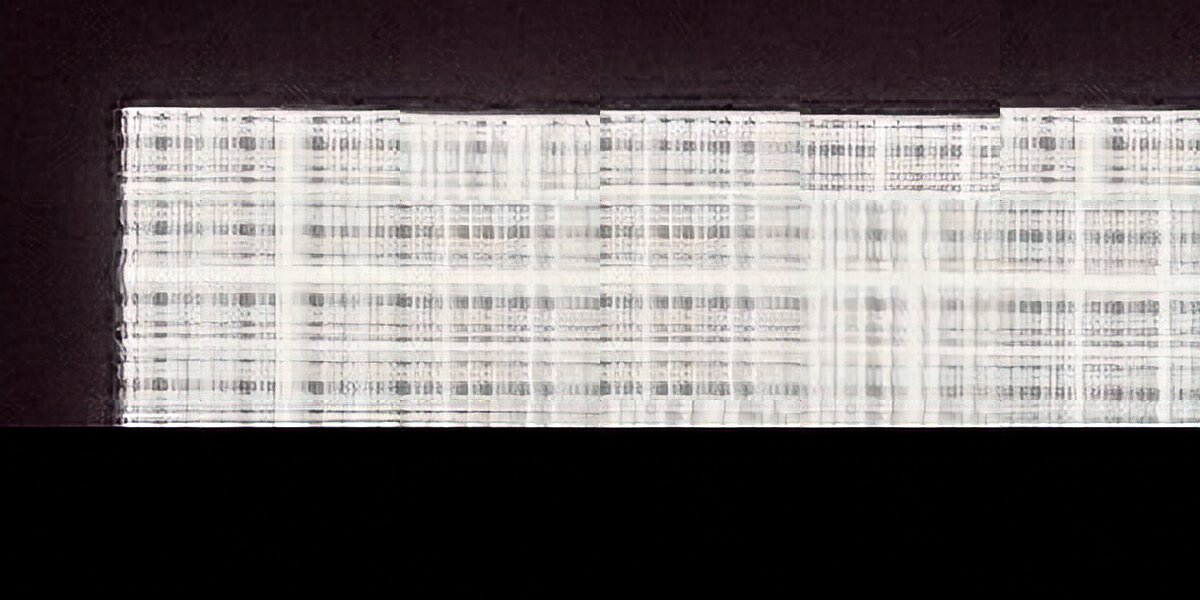
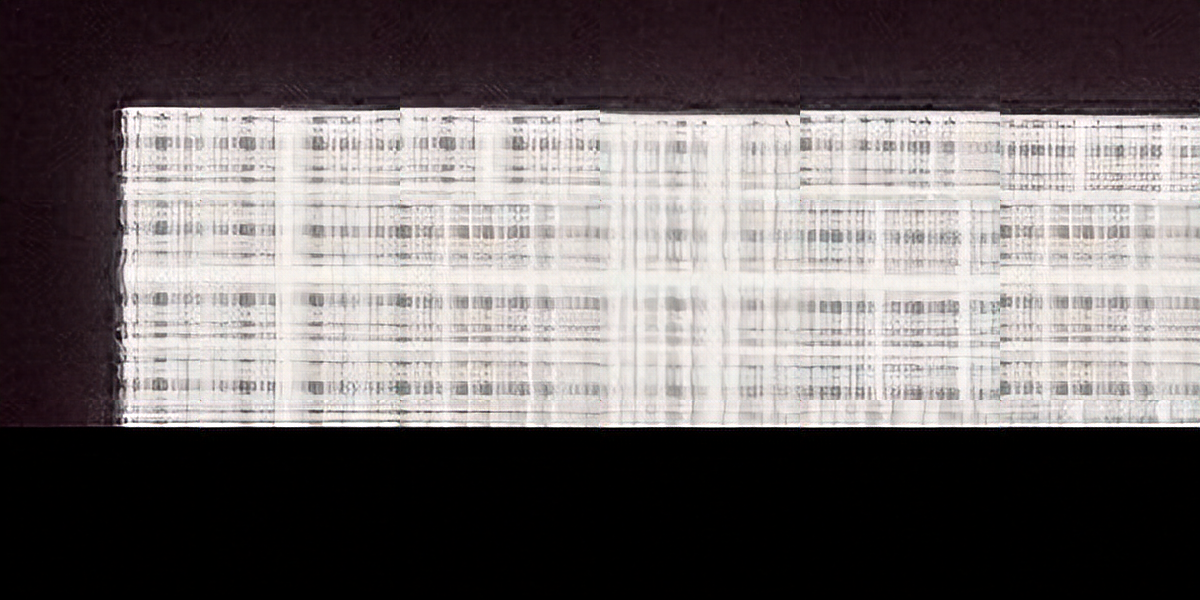
update

Changed region(s): [[0.3083, 0.15, 1.0, 0.69]]

diff --git a/imgcrop.py b/imgcrop.py
@@ -9,19 +9,45 @@ import numpy as np
 
 def imgcrop():
     # Opens a image in RGB mode
-    im = Image.open(r"C:\Users\Anvilly Huang\Documents\GitHub\resLF\img\croppedlong.png")
+    im = Image.open(r"C:\Users\Anvilly Huang\Documents\GitHub\resLF\img\rawimg.png")
     # Setting the points for cropped image
-    left = 25
-    top = 25
-    right = 289
-    bottom = 132
+
+    # TestRes01
+    # left =460
+    # top = 50
+    # right = left+50
+    # bottom = top+50
+
+    # TestRes02
+    # left =40
+    # top = 460
+    # right = left+50
+    # bottom = top+50
+
+    # TestRes03
+    # left =460
+    # top = 460
+    # right = left+50
+    # bottom = top+50
+
+    # TestRes04
+    # left =480
+    # top = 480
+    # right = left+50
+    # bottom = top+50   
+
+    # Rawimg
+    left =2400
+    top = 1700
+    right = left+50
+    bottom = top+50   
 
     # Cropped image of above dimension
     # (It will not change original image)
     im1 = im.crop((left, top, right, bottom))
     
     # Shows the image in image viewer
-    im1.save(f"{filepath}\cropped.png") 
+    im1.save(f"{filepath}\RawimgCropped03.png") 
     im1.show()
 
 
@@ -99,6 +125,6 @@ def stitch2():
 filepath=r"C:\Users\Anvilly Huang\Documents\GitHub\resLF\img"
 # imglist=  [f for f in listdir(filepath) if (isfile(join(filepath,f)) and f.startswith("cropped"))]
 
-# imgcrop()
+imgcrop()
 # preprocessing()
-stitch2()
+# stitch2()
